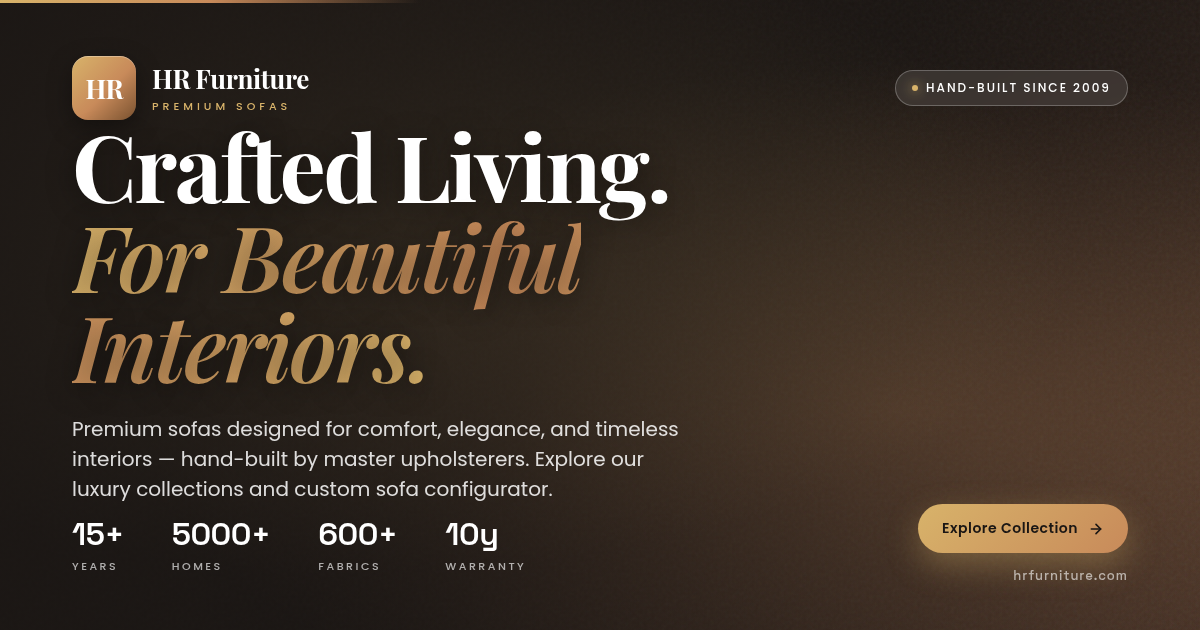
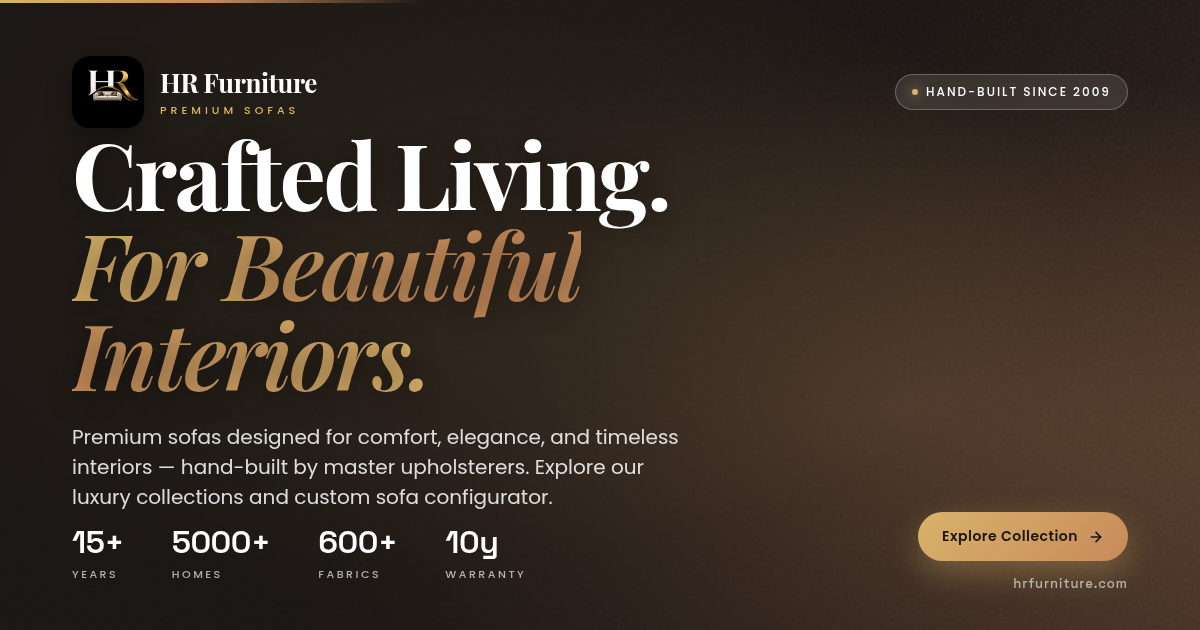
b08bf1c9-f4f9-4872-a6c4-d8c9218963ae

diff --git a/scripts/gen-favicons.js b/scripts/gen-favicons.js
@@ -1,41 +1,52 @@
-// Generate PNG favicons at multiple sizes from the SVG monogram using sharp.
+// Generate PNG favicons at multiple sizes from the user's uploaded logo.
 const sharp = require('sharp');
 const fs = require('fs');
 const path = require('path');
 
-const SVG = '/home/z/my-project/public/brand/monogram.svg';
+const SRC = '/home/z/my-project/public/brand/logo-original.jpg';
 const OUT_DIR = '/home/z/my-project/public/brand';
 
 const sizes = [16, 32, 48, 64, 96, 128, 180, 192, 256, 512, 1024];
-const svgBuffer = fs.readFileSync(SVG);
 
 (async () => {
+  // 1. Standard square favicons — cover-fit the source so it fills the square
   for (const s of sizes) {
     const out = path.join(OUT_DIR, `favicon-${s}.png`);
-    await sharp(svgBuffer, { density: 384 })
-      .resize(s, s, { fit: 'contain', background: { r: 0, g: 0, b: 0, alpha: 0 } })
+    await sharp(SRC)
+      .resize(s, s, { fit: 'cover', position: 'center' })
       .png()
       .toFile(out);
     console.log(`OK  ${s}x${s}  -> ${path.basename(out)}`);
   }
 
-  // favicon.ico (multi-size) — sharp can write an ICO via ico plugin, but we'll just save a 32x32 PNG named favicon.ico
-  // Actually let's just save a single 32x32 png and rename to .ico — modern browsers accept PNG-format .ico
-  const icoOut = path.join(OUT_DIR, 'favicon.ico');
-  await sharp(svgBuffer, { density: 384 })
-    .resize(32, 32, { fit: 'contain', background: { r: 0, g: 0, b: 0, alpha: 0 } })
+  // 2. favicon.ico (32x32 PNG — modern browsers accept PNG-format .ico)
+  await sharp(SRC)
+    .resize(32, 32, { fit: 'cover', position: 'center' })
     .png()
-    .toFile(icoOut);
+    .toFile(path.join(OUT_DIR, 'favicon.ico'));
   console.log(`OK  favicon.ico (32x32 PNG)`);
 
-  // Apple touch icon (180x180 with white background)
-  const appleOut = path.join(OUT_DIR, 'apple-touch-icon.png');
-  await sharp(svgBuffer, { density: 384 })
-    .resize(180, 180, { fit: 'contain', background: { r: 255, g: 255, b: 255, alpha: 1 } })
-    .flatten({ background: '#FFFFFF' })
+  // 3. apple-touch-icon.png — 180x180 with the logo on a white background
+  //    (Apple requires opaque icons; the original is on black so we keep the black background)
+  await sharp(SRC)
+    .resize(180, 180, { fit: 'cover', position: 'center' })
     .png()
-    .toFile(appleOut);
+    .toFile(path.join(OUT_DIR, 'apple-touch-icon.png'));
   console.log(`OK  apple-touch-icon.png (180x180)`);
 
-  console.log('\nDone.');
+  // 4. Brand logo for navbar — larger format, original aspect (1:1)
+  await sharp(SRC)
+    .resize(256, 256, { fit: 'cover', position: 'center' })
+    .png()
+    .toFile(path.join(OUT_DIR, 'brand-logo.png'));
+  console.log(`OK  brand-logo.png (256x256 for navbar)`);
+
+  // 5. OG image logo — 64x64 small monogram for OG banner
+  await sharp(SRC)
+    .resize(128, 128, { fit: 'cover', position: 'center' })
+    .png()
+    .toFile(path.join(OUT_DIR, 'og-monogram.png'));
+  console.log(`OK  og-monogram.png (128x128 for OG image)`);
+
+  console.log('\nDone. Files in:', OUT_DIR);
 })().catch(e => { console.error('ERR', e); process.exit(1); });

diff --git a/src/app/layout.tsx b/src/app/layout.tsx
@@ -72,8 +72,8 @@ export const metadata: Metadata = {
       { url: "/brand/favicon-32.png", sizes: "32x32", type: "image/png" },
       { url: "/brand/favicon-48.png", sizes: "48x48", type: "image/png" },
       { url: "/brand/favicon-96.png", sizes: "96x96", type: "image/png" },
+      { url: "/brand/favicon-192.png", sizes: "192x192", type: "image/png" },
       { url: "/brand/favicon.ico", sizes: "any" },
-      { url: "/brand/favicon.svg", type: "image/svg+xml" },
     ],
     shortcut: ["/brand/favicon.ico"],
     apple: [
@@ -141,8 +141,9 @@ export default function RootLayout({
     <html lang="en" suppressHydrationWarning>
       <head>
         {/* Fallback icon link tags (Next.js metadata usually handles this, but extra guarantees) */}
-        <link rel="icon" href="/brand/favicon.svg" type="image/svg+xml" />
         <link rel="icon" href="/brand/favicon.ico" sizes="any" />
+        <link rel="icon" href="/brand/favicon-32.png" type="image/png" sizes="32x32" />
+        <link rel="icon" href="/brand/favicon-192.png" type="image/png" sizes="192x192" />
         <link rel="apple-touch-icon" href="/brand/apple-touch-icon.png" />
         <link rel="manifest" href="/site.webmanifest" />
       </head>

diff --git a/scripts/og-image.html b/scripts/og-image.html
@@ -51,15 +51,16 @@
     display: flex; align-items: center; gap: 16px;
   }
   .monogram {
-    width: 64px; height: 64px;
-    border-radius: 16px;
-    background: linear-gradient(135deg, #D8B36A 0%, #C88A5A 55%, #7A5230 100%);
-    display: flex; align-items: center; justify-content: center;
-    font-family: 'Playfair Display', serif;
-    font-weight: 700; font-size: 26px;
-    color: #fff;
+    width: 72px; height: 72px;
+    border-radius: 18px;
+    overflow: hidden;
     box-shadow: 0 8px 24px rgba(0,0,0,0.35), inset 0 1px 0 rgba(255,255,255,0.3);
-    letter-spacing: -1px;
+    background: #000;
+  }
+  .monogram img {
+    width: 100%; height: 100%;
+    object-fit: cover;
+    display: block;
   }
   .brand-text {
     display: flex; flex-direction: column; gap: 2px;
@@ -187,7 +188,7 @@
     <div class="content">
       <div class="top">
         <div class="brand">
-          <div class="monogram">HR</div>
+          <div class="monogram"><img src="brand-logo.png" alt="HR Furniture logo" /></div>
           <div class="brand-text">
             <div class="brand-name">HR Furniture</div>
             <div class="brand-tag">Premium Sofas</div>

diff --git a/src/components/site/footer.tsx b/src/components/site/footer.tsx
@@ -60,12 +60,11 @@ export function Footer() {
       <div className="relative mx-auto max-w-[1400px] px-5 lg:px-10 py-14 lg:py-16 grid grid-cols-2 md:grid-cols-4 lg:grid-cols-6 gap-8 lg:gap-10">
         {/* Brand */}
         <div className="col-span-2 lg:col-span-2">
-          <div className="flex items-center gap-2.5 mb-4">
-            <div className="relative w-11 h-11 rounded-full overflow-hidden shadow-soft ring-1 ring-white/20">
+          <div className="flex items-center gap-3 mb-4">
+            <div className="relative w-12 h-12 rounded-full overflow-hidden shadow-soft ring-1 ring-white/25 shrink-0">
               <img
-                src="/brand/monogram.svg"
-                alt=""
-                aria-hidden="true"
+                src="/brand/brand-logo.png"
+                alt="HR Furniture logo"
                 className="w-full h-full object-cover"
               />
             </div>

diff --git a/src/components/site/navbar.tsx b/src/components/site/navbar.tsx
@@ -41,11 +41,10 @@ export function Navbar() {
         <nav className="mx-auto max-w-[1400px] px-5 lg:px-10 flex items-center justify-between gap-4">
           {/* Logo */}
           <a href="#home" className="flex items-center gap-2.5 group">
-            <div className="relative w-10 h-10 rounded-full overflow-hidden shadow-soft ring-1 ring-white/30 group-hover:ring-white/60 transition-all duration-500">
+            <div className="relative w-11 h-11 rounded-full overflow-hidden shadow-soft ring-1 ring-white/40 group-hover:ring-white/80 transition-all duration-500 shrink-0">
               <img
-                src="/brand/monogram.svg"
-                alt=""
-                aria-hidden="true"
+                src="/brand/brand-logo.png"
+                alt="HR Furniture logo"
                 className="w-full h-full object-cover"
               />
             </div>

diff --git a/worklog.md b/worklog.md
@@ -144,3 +144,32 @@ Stage Summary:
 - Professional images: 21 AI-generated photographs across hero, categories, featured collection, gallery, before/after, and CTA background.
 - OG image: 1200x630 designed banner with brand, headline, stats, CTA — works on WhatsApp, Facebook, Twitter, LinkedIn.
 - For Vercel deployment: user sets NEXT_PUBLIC_SITE_URL env var to their domain (or updates the placeholder in layout.tsx line 41) — all OG/Twitter URLs will then resolve to their domain automatically.
+
+---
+Task ID: revision-3
+Agent: super-z (main)
+Task: Use the user's uploaded WhatsApp image (HR logo with sofa) as the logo and favicon for the entire site.
+
+Work Log:
+- Inspected the uploaded file: /home/z/my-project/upload/WhatsApp Image 2026-07-25 at 12.15.47 PM.jpeg — 500x500 JPEG, black background with white "H" + gold "R" + a small cream sofa illustration beneath. Suitable for a luxury furniture brand.
+- Copied the original to /home/z/my-project/public/brand/logo-original.jpg as the master source.
+- Rewrote scripts/gen-favicons.js to use sharp with cover-fit on the user's JPG (instead of the previous SVG monogram).
+- Generated 11 PNG favicons (16/32/48/64/96/128/180/192/256/512/1024), favicon.ico (32x32 PNG), apple-touch-icon.png (180x180), brand-logo.png (256x256 for navbar/footer use), and og-monogram.png (128x128).
+- Removed the old SVG monogram.svg and favicon.svg from /public/brand/ since the user's logo is raster, not vector.
+- Updated src/app/layout.tsx: removed the SVG icon entry, added 192x192 PNG to the icon list, updated the <head> fallback links to use PNG + ICO only.
+- Updated src/components/site/navbar.tsx: swapped the <img src="/brand/monogram.svg"> for <img src="/brand/brand-logo.png"> with proper alt text. Increased logo size from w-10 h-10 to w-11 h-11 to better show the logo detail. Added ring-white/40 (was ring-white/30) for better visibility against the dark hero background.
+- Updated src/components/site/footer.tsx: same swap, increased logo size from w-11 h-11 to w-12 h-12 for footer prominence.
+- Updated scripts/og-image.html: replaced the CSS-styled "HR" text monogram with an <img src="brand-logo.png"> inside the .monogram container (now 72x72 with overflow:hidden + black background + object-fit:cover). Copied the logo alongside the HTML for file:// rendering.
+- Re-rendered the OG image at /public/og-image.png (1200x630, 762KB) via Agent Browser screenshot. The new logo is now visible in the top-left of the OG banner alongside the "HR Furniture / Premium Sofas" wordmark.
+- Verified via VLM:
+  - Navbar (top of hero): circular logo with "HR" letters visible in top-left ✓
+  - Footer: circular logo with gold "HR" visible in top-left of brand column ✓
+  - OG image: logo visible in top-left corner of social sharing banner ✓
+- Verified all assets serve HTTP 200: favicon.ico (993 bytes), brand-logo.png (29KB), apple-touch-icon.png (15KB), favicon-32.png (993 bytes).
+- Verified the browser's loaded favicon link tags all point to /brand/favicon-*.png (no stale SVG references).
+
+Stage Summary:
+- User's uploaded WhatsApp logo now used everywhere: navbar, footer, OG image, all favicon sizes (16–1024px), Apple touch icon, PWA manifest icons, and the social sharing banner.
+- Original SVG monogram removed completely.
+- All favicons regenerated from the user's logo via sharp with cover-fit.
+- OG image re-rendered to include the new logo in the top-left of the social sharing card.
